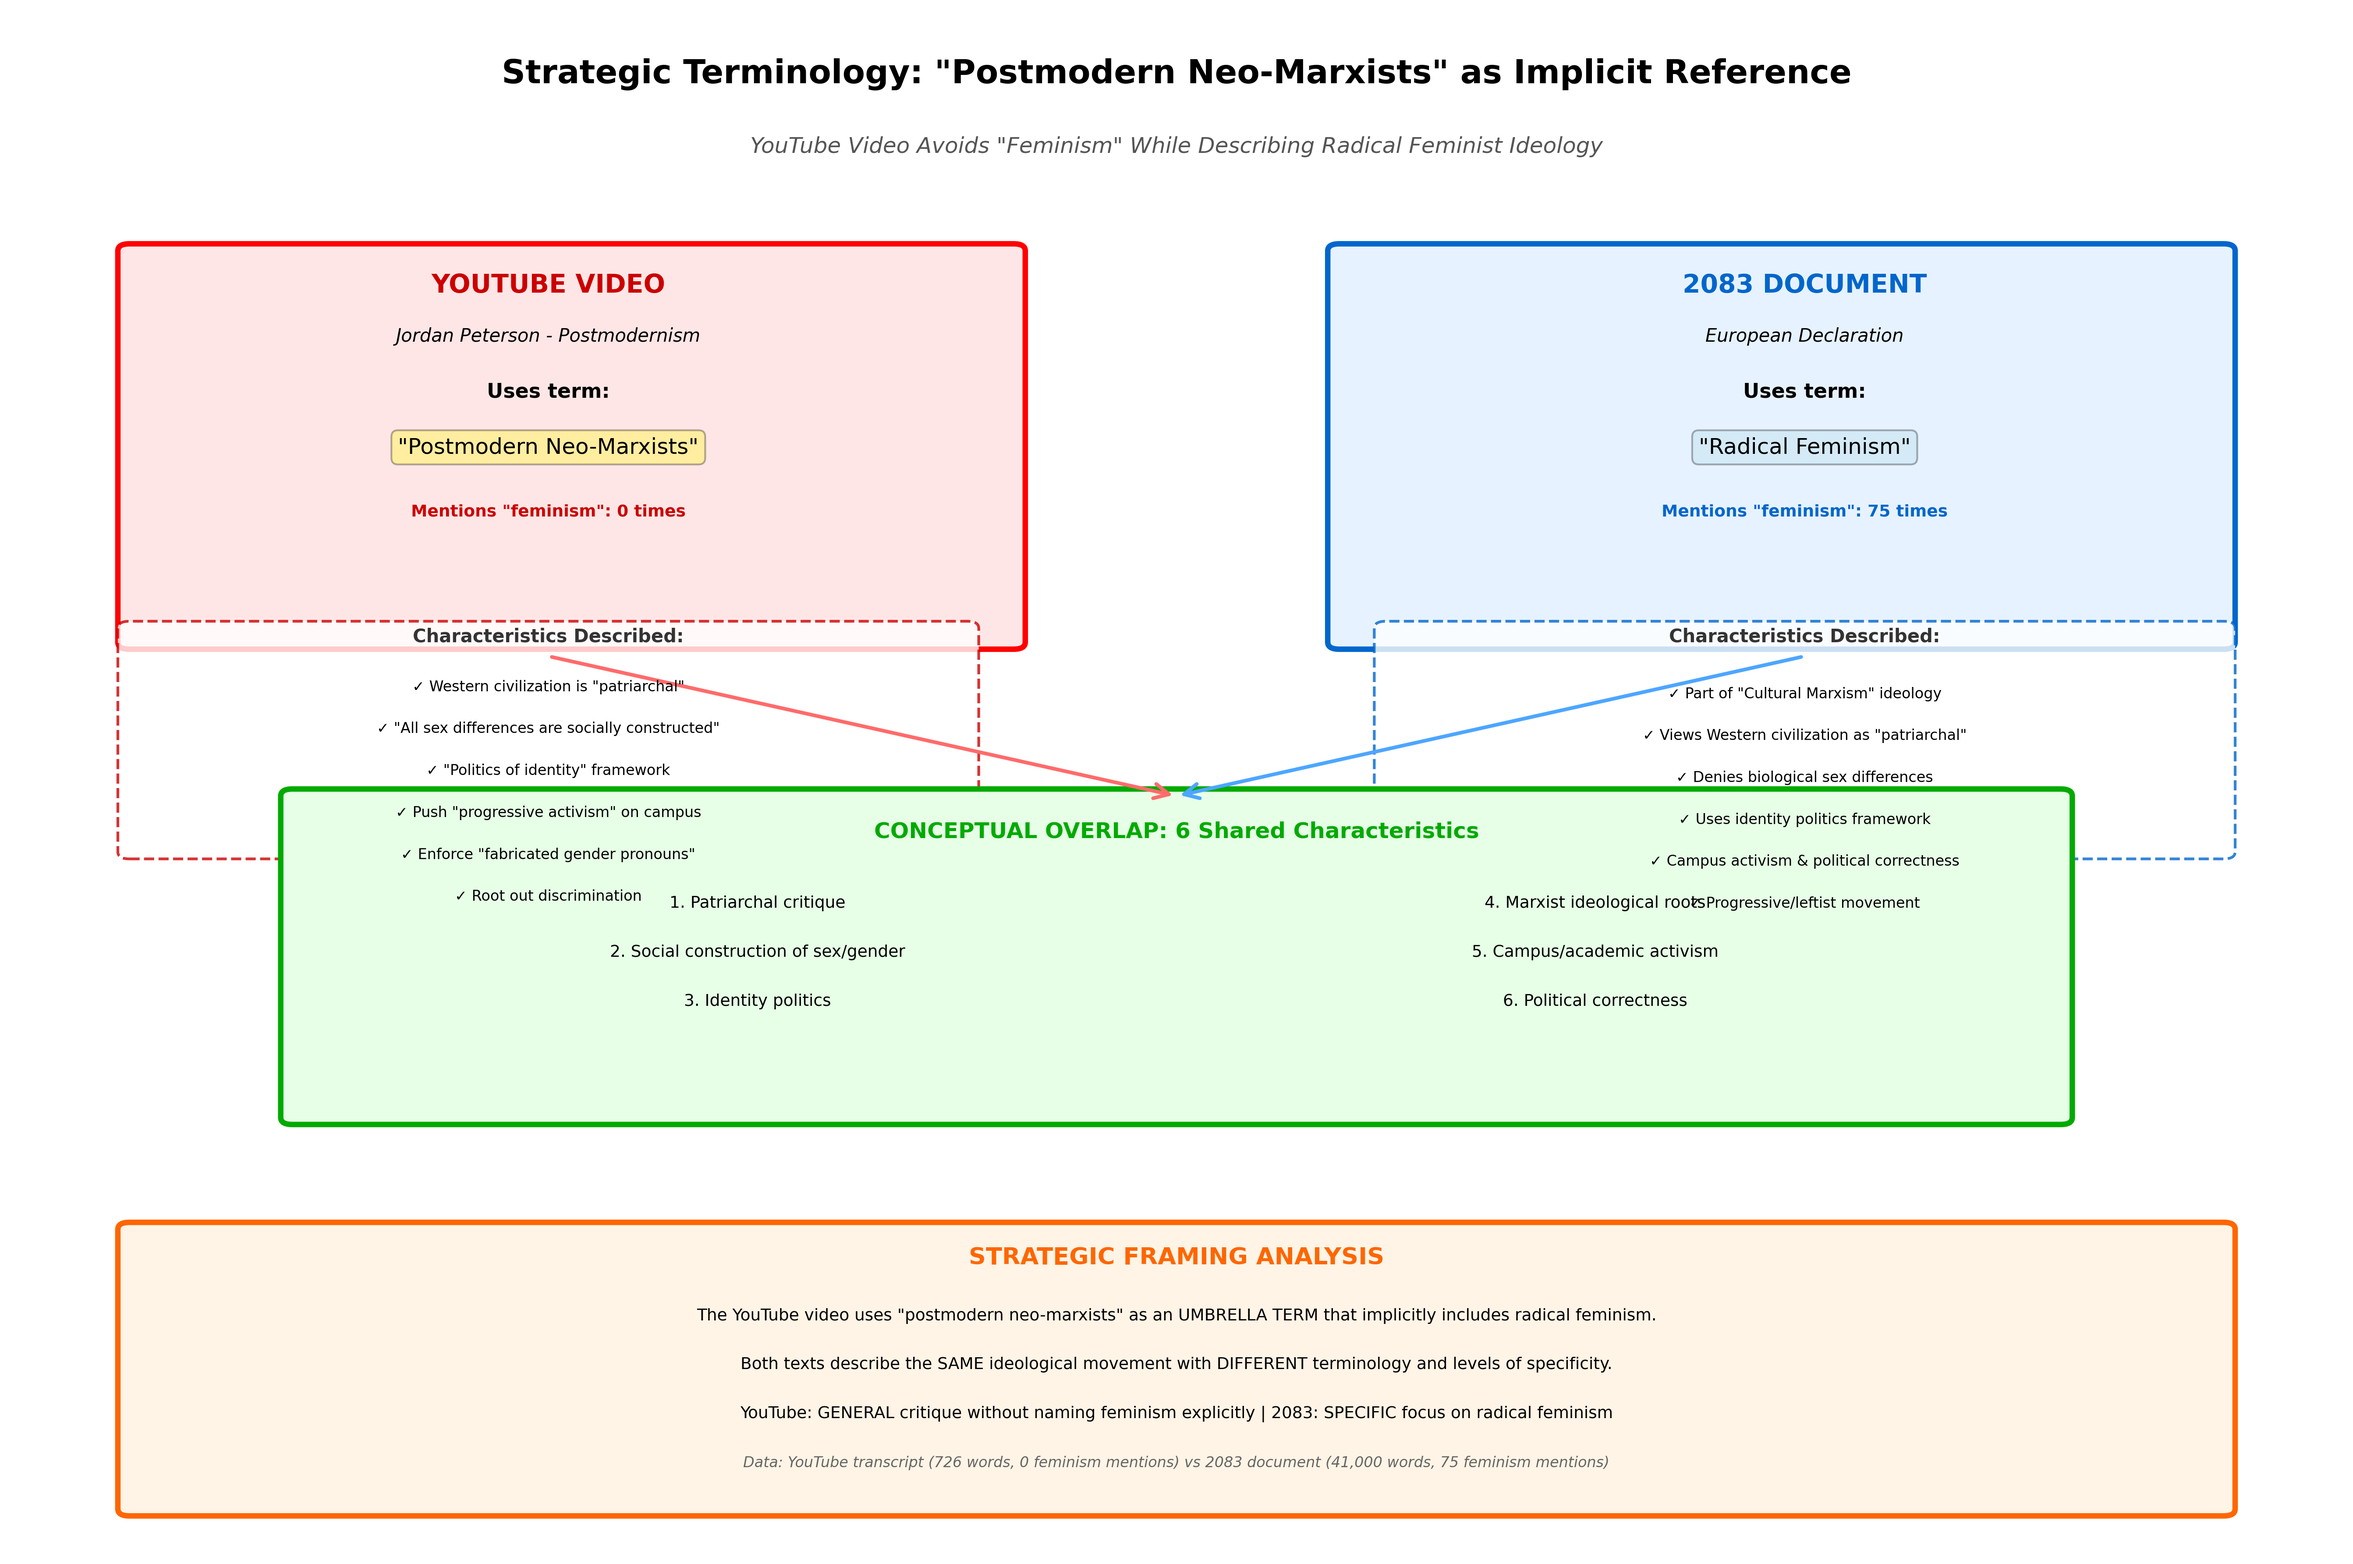
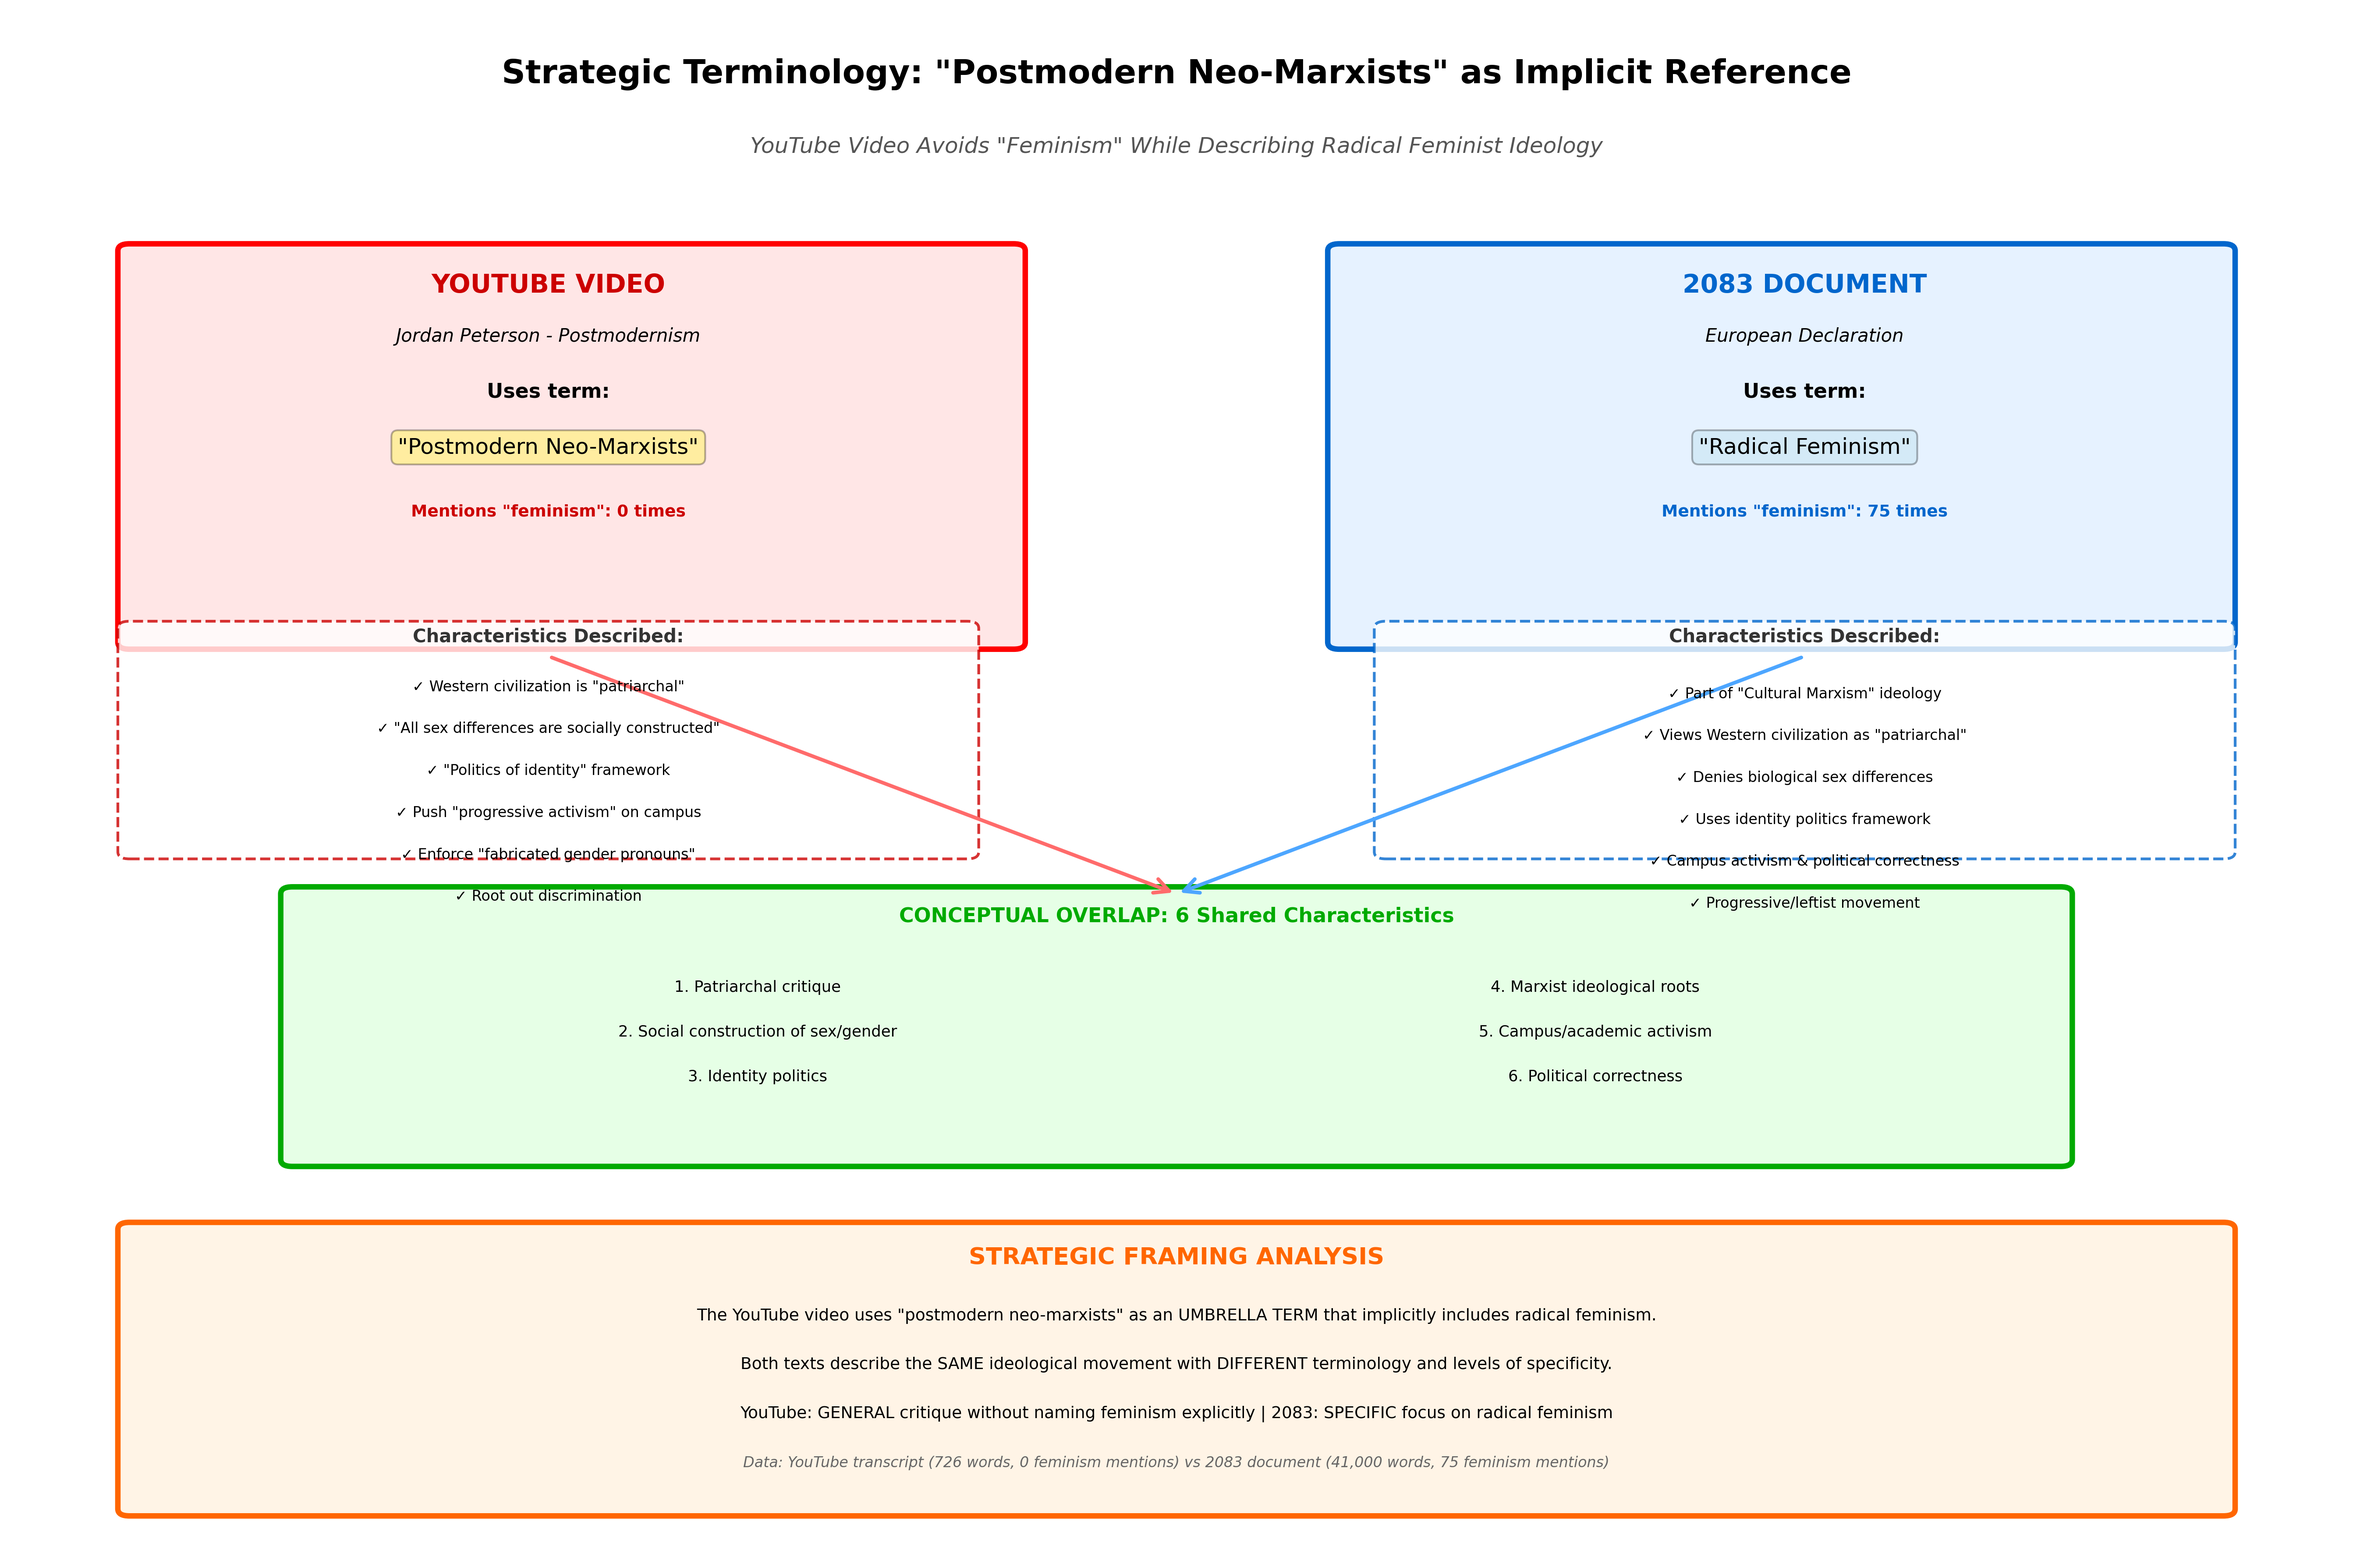
Make green overlap box shorter and move further down - better visual flow

diff --git a/visualize_implicit_feminism.py b/visualize_implicit_feminism.py
@@ -103,14 +103,14 @@ for char in characteristics_doc:
     y_pos -= 0.3
 
 # CENTER: Overlap analysis
-overlap_box = FancyBboxPatch((1.2, 3.1), 7.6, 2.3, 
+overlap_box = FancyBboxPatch((1.2, 2.8), 7.6, 1.9, 
                              boxstyle="round,pad=0.05", 
                              edgecolor='#00AA00', facecolor='#E6FFE6', 
                              linewidth=3)
 ax.add_patch(overlap_box)
 
-ax.text(5, 5.1, 'CONCEPTUAL OVERLAP: 6 Shared Characteristics', 
-        ha='center', fontsize=12, fontweight='bold', color='#00AA00')
+ax.text(5, 4.5, 'CONCEPTUAL OVERLAP: 6 Shared Characteristics', 
+        ha='center', fontsize=11, fontweight='bold', color='#00AA00')
 
 shared = [
     '1. Patriarchal critique',
@@ -124,21 +124,21 @@ shared = [
 # Display shared characteristics in 2 columns
 col1_x = 3.2
 col2_x = 6.8
-y_start = 4.6
+y_start = 4.0
 
 for i, item in enumerate(shared):
     if i < 3:
-        ax.text(col1_x, y_start - (i * 0.35), item, ha='center', fontsize=9, color='#000')
+        ax.text(col1_x, y_start - (i * 0.32), item, ha='center', fontsize=8.5, color='#000')
     else:
-        ax.text(col2_x, y_start - ((i-3) * 0.35), item, ha='center', fontsize=9, color='#000')
+        ax.text(col2_x, y_start - ((i-3) * 0.32), item, ha='center', fontsize=8.5, color='#000')
 
 # Arrows showing connection
-arrow1 = FancyArrowPatch((2.3, 6.4), (5, 5.4),
+arrow1 = FancyArrowPatch((2.3, 6.4), (5, 4.7),
                         arrowstyle='->', mutation_scale=20, 
                         color='#FF6B6B', linewidth=2)
 ax.add_patch(arrow1)
 
-arrow2 = FancyArrowPatch((7.7, 6.4), (5, 5.4),
+arrow2 = FancyArrowPatch((7.7, 6.4), (5, 4.7),
                         arrowstyle='->', mutation_scale=20, 
                         color='#4DA6FF', linewidth=2)
 ax.add_patch(arrow2)
